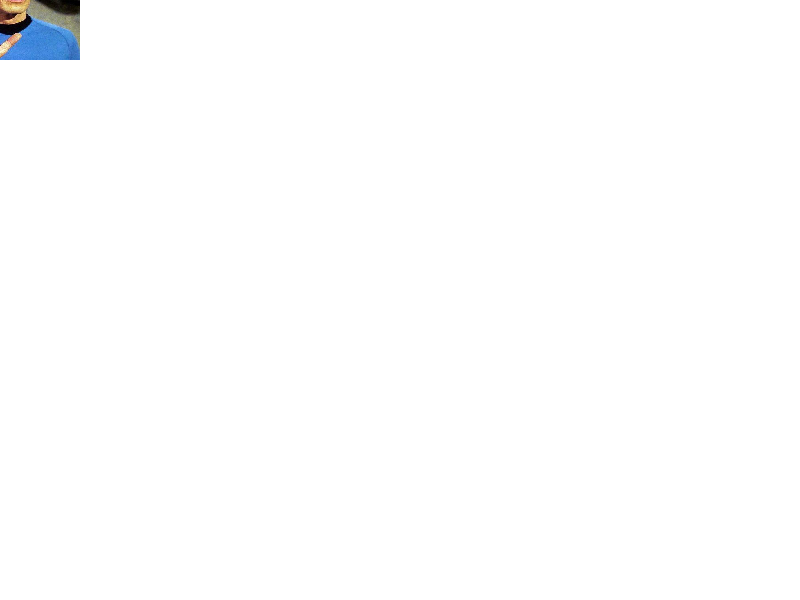
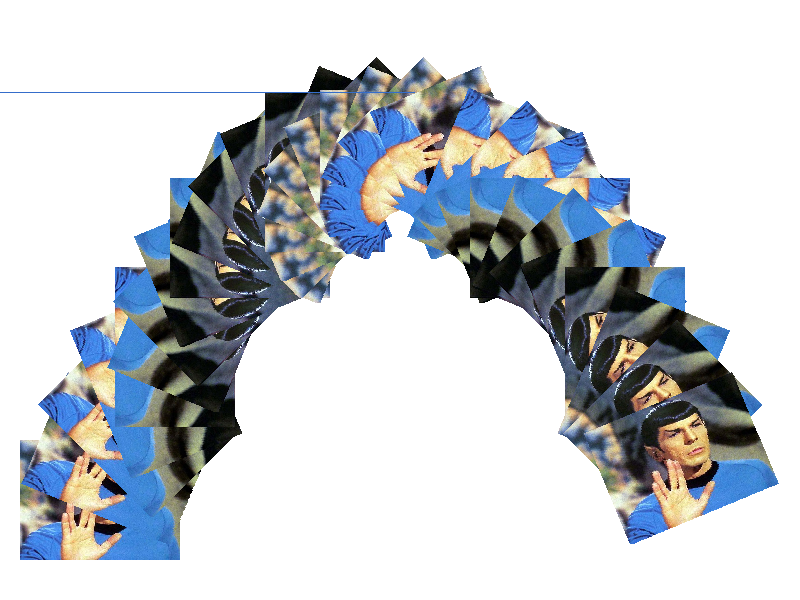
Added a clamp function, and changed bitmap rect to use src.getAddr for safety

diff --git a/check/index.html b/check/index.html
@@ -1,0 +1,55 @@
+<h3>Test Orig Diff DIFF</h3>
+tri<br/>
+<a href="tri__test.png"><img src="tri__test.png" /></a>
+&nbsp;&nbsp;<a href="tri__orig.png"><img src="tri__orig.png" /></a>
+&nbsp;&nbsp;<a href="tri__dif0.png"><img src="tri__dif0.png" /></a>
+&nbsp;&nbsp;<a href="tri__dif1.png"><img src="tri__dif1.png" /></a>
+<br><br>
+tri_clipped<br/>
+<a href="tri_clipped__test.png"><img src="tri_clipped__test.png" /></a>
+&nbsp;&nbsp;<a href="tri_clipped__orig.png"><img src="tri_clipped__orig.png" /></a>
+&nbsp;&nbsp;<a href="tri_clipped__dif0.png"><img src="tri_clipped__dif0.png" /></a>
+&nbsp;&nbsp;<a href="tri_clipped__dif1.png"><img src="tri_clipped__dif1.png" /></a>
+<br><br>
+poly<br/>
+<a href="poly__test.png"><img src="poly__test.png" /></a>
+&nbsp;&nbsp;<a href="poly__orig.png"><img src="poly__orig.png" /></a>
+&nbsp;&nbsp;<a href="poly__dif0.png"><img src="poly__dif0.png" /></a>
+&nbsp;&nbsp;<a href="poly__dif1.png"><img src="poly__dif1.png" /></a>
+<br><br>
+poly_center<br/>
+<a href="poly_center__test.png"><img src="poly_center__test.png" /></a>
+&nbsp;&nbsp;<a href="poly_center__orig.png"><img src="poly_center__orig.png" /></a>
+&nbsp;&nbsp;<a href="poly_center__dif0.png"><img src="poly_center__dif0.png" /></a>
+&nbsp;&nbsp;<a href="poly_center__dif1.png"><img src="poly_center__dif1.png" /></a>
+<br><br>
+poly_rotate<br/>
+<a href="poly_rotate__test.png"><img src="poly_rotate__test.png" /></a>
+&nbsp;&nbsp;<a href="poly_rotate__orig.png"><img src="poly_rotate__orig.png" /></a>
+&nbsp;&nbsp;<a href="poly_rotate__dif0.png"><img src="poly_rotate__dif0.png" /></a>
+&nbsp;&nbsp;<a href="poly_rotate__dif1.png"><img src="poly_rotate__dif1.png" /></a>
+<br><br>
+draw_concat_scale<br/>
+<a href="draw_concat_scale__test.png"><img src="draw_concat_scale__test.png" /></a>
+&nbsp;&nbsp;<a href="draw_concat_scale__orig.png"><img src="draw_concat_scale__orig.png" /></a>
+&nbsp;&nbsp;<a href="draw_concat_scale__dif0.png"><img src="draw_concat_scale__dif0.png" /></a>
+&nbsp;&nbsp;<a href="draw_concat_scale__dif1.png"><img src="draw_concat_scale__dif1.png" /></a>
+<br><br>
+draw_concat_scale_bitmap<br/>
+<a href="draw_concat_scale_bitmap__test.png"><img src="draw_concat_scale_bitmap__test.png" /></a>
+&nbsp;&nbsp;<a href="draw_concat_scale_bitmap__orig.png"><img src="draw_concat_scale_bitmap__orig.png" /></a>
+&nbsp;&nbsp;<a href="draw_concat_scale_bitmap__dif0.png"><img src="draw_concat_scale_bitmap__dif0.png" /></a>
+&nbsp;&nbsp;<a href="draw_concat_scale_bitmap__dif1.png"><img src="draw_concat_scale_bitmap__dif1.png" /></a>
+<br><br>
+draw_concat_rotate<br/>
+<a href="draw_concat_rotate__test.png"><img src="draw_concat_rotate__test.png" /></a>
+&nbsp;&nbsp;<a href="draw_concat_rotate__orig.png"><img src="draw_concat_rotate__orig.png" /></a>
+&nbsp;&nbsp;<a href="draw_concat_rotate__dif0.png"><img src="draw_concat_rotate__dif0.png" /></a>
+&nbsp;&nbsp;<a href="draw_concat_rotate__dif1.png"><img src="draw_concat_rotate__dif1.png" /></a>
+<br><br>
+draw_concat_rotate_bitmap<br/>
+<a href="draw_concat_rotate_bitmap__test.png"><img src="draw_concat_rotate_bitmap__test.png" /></a>
+&nbsp;&nbsp;<a href="draw_concat_rotate_bitmap__orig.png"><img src="draw_concat_rotate_bitmap__orig.png" /></a>
+&nbsp;&nbsp;<a href="draw_concat_rotate_bitmap__dif0.png"><img src="draw_concat_rotate_bitmap__dif0.png" /></a>
+&nbsp;&nbsp;<a href="draw_concat_rotate_bitmap__dif1.png"><img src="draw_concat_rotate_bitmap__dif1.png" /></a>
+<br><br>

diff --git a/MyCanvas.cpp b/MyCanvas.cpp
@@ -458,8 +458,10 @@ void MyCanvas::DrawBitmapPolygon(std::vector<GEdge>& Edges, const GBitmap& src, 
 		{
 			/* Lookup xy values from src bitmap */
 			auto Converted = InverseRect.ConvertPoint(GPoint{x, y});
-			int index = (int)Converted.x() + ((int)Converted.y()) * src.width();
-			GPixel SrcPixel = SrcPixels[index];
+			int NewX = clamp(0, (int)Converted.x(), src.width() - 1);
+			int NewY = clamp(0, (int)Converted.y(), src.height() - 1);
+
+			GPixel SrcPixel = *(src.getAddr(NewX, NewY));
 
 			DstPixels[(int)x] = Blend(SrcPixel, DstPixels[(int)x]);
 		}
@@ -531,10 +533,10 @@ void MyCanvas::DrawPolygon(std::vector<GEdge>& Edges, const GPixel& Color)
 	}
 }
 
-void MyCanvas::LookUpAddress(GPixel* Pixels, float x, float y, const GMatrix3x3f& InverseRect)
-{
-	return;
+int MyCanvas::clamp(int min, int value, int max) {
+        return std::max(min, std::min(value, max));
 }
+
 // void MyCanvas::CheckEdgeValues(const std::vector<GEdge>& Edges)
 // {
 //   for (const auto Edge: Edges)

diff --git a/MyCanvas.h b/MyCanvas.h
@@ -83,7 +83,7 @@ public:
 	/* Draw the polygon using the container of edges to the input color*/
 	void DrawPolygon(std::vector<GEdge>& Edges, const GPixel& Color);
 
-	void LookUpAddress(GPixel* Pixels, float x, float y, const GMatrix3x3f& InverseRect);
+	static int clamp(int min, int value, int max);
 private:
 	const GBitmap Bitmap;
 	const GIRect BmpRect;
